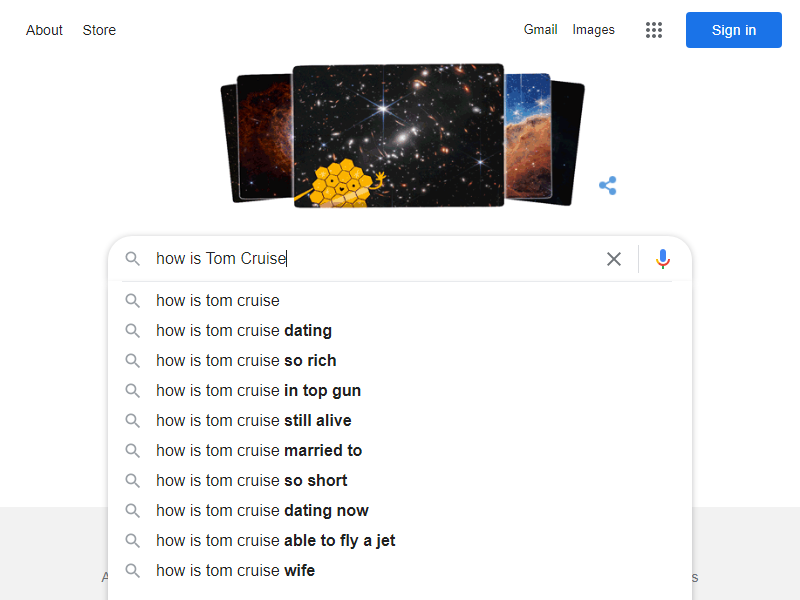
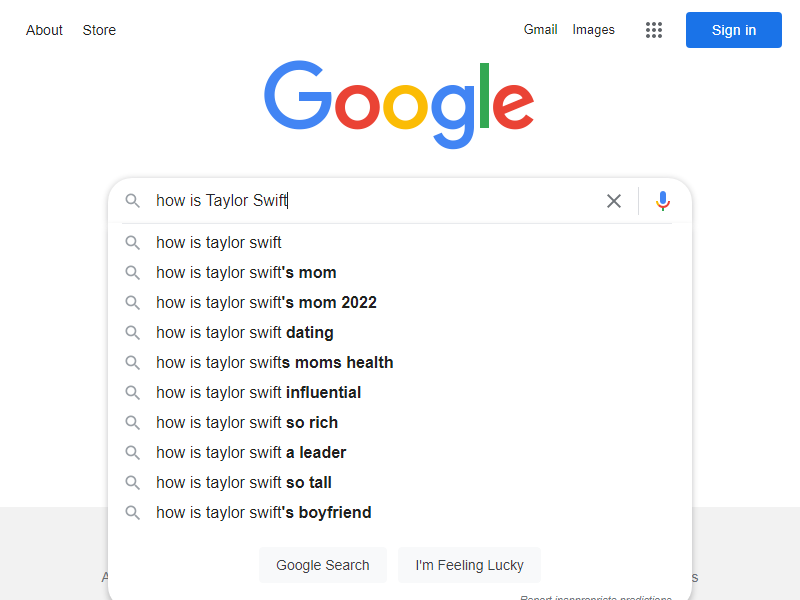
removed some lines

diff --git a/index.js b/index.js
@@ -1,6 +1,6 @@
 const puppeteer = require("puppeteer");
 
-let person = "Tom Cruise";
+let person = "Taylor Swift";
 
 let prompts = [
   `who is ${person}`,
@@ -12,9 +12,6 @@ let prompts = [
   `what does ${person}`,
   `what was ${person}`,
   `what is ${person}`,
-  `who is ${person}`,
-  `who did ${person}`,
-  `who would ${person}`,
   `can ${person}`,
   `does ${person}`,
 ];
